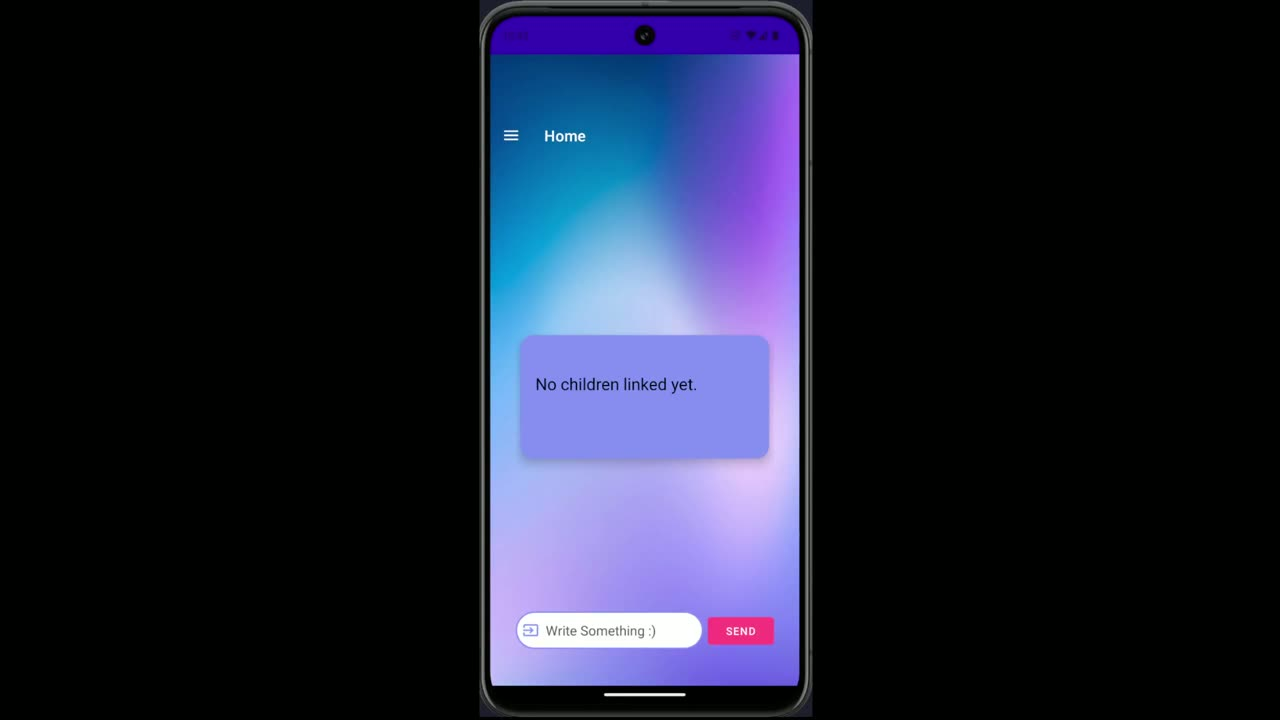
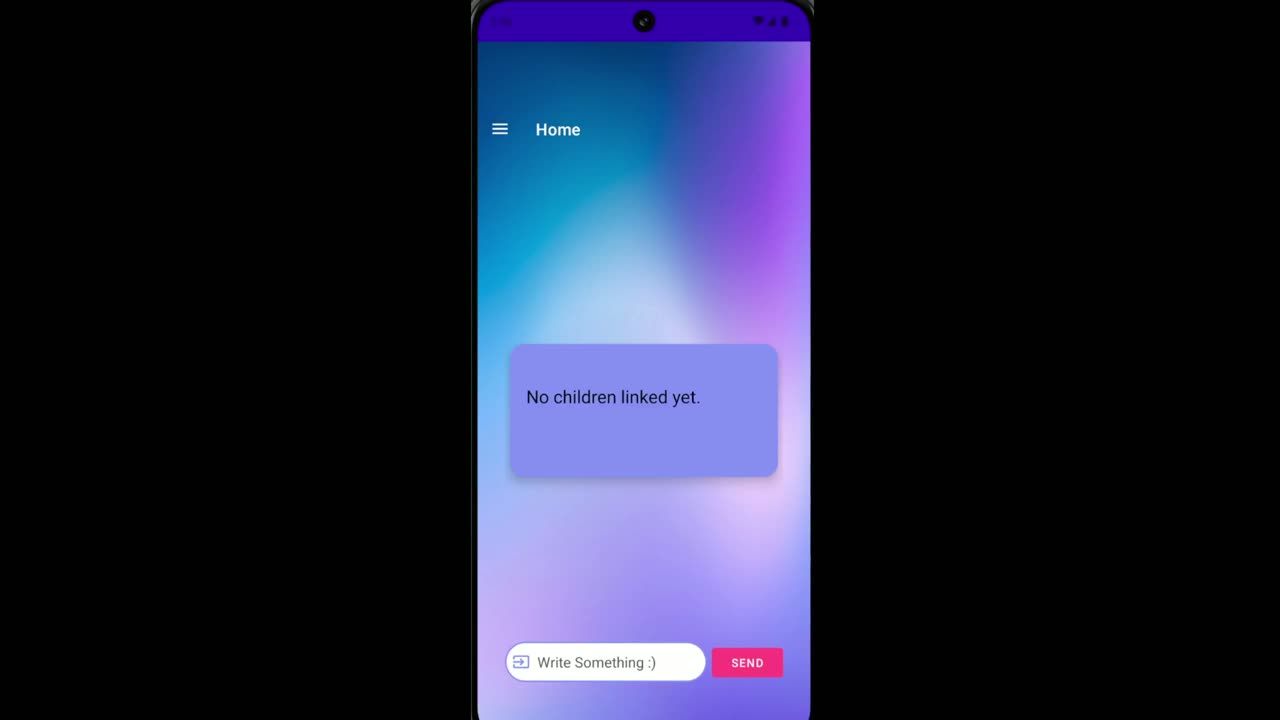
Update add child demo thumbnail

Changed region(s): [[0.3438, 0.0, 0.6562, 1.0]]

diff --git a/js/config.js b/js/config.js
@@ -30,7 +30,7 @@ const DEMOS_DIR = "./assets/c-aegis_demo";
 const DEMO_GROUPS = [
   {
     key: "parent", label: "Parent demos", clips: [
-      { file: "add_child.mp4", title: "Link a child", desc: "Sending a secure link request to a child account.", dur: "0:23" },
+      { file: "add_child.mp4", title: "Link a child", desc: "Sending a secure link request to a child account.", dur: "0:22" },
       { file: "geofence.mp4", title: "Geofence alerts", desc: "Drawing a safe zone on the map and receiving the breach alert.", dur: "0:20" },
       { file: "offline_trimmed.mp4", title: "Offline caching", desc: "Locations cache while offline and sync on reconnect.", dur: "0:20" },
       { file: "logout_too_many_attempts_tamper.mp4", title: "PIN tamper alert", desc: "Repeated failed PIN attempts trigger a tamper alert.", dur: "0:47" },